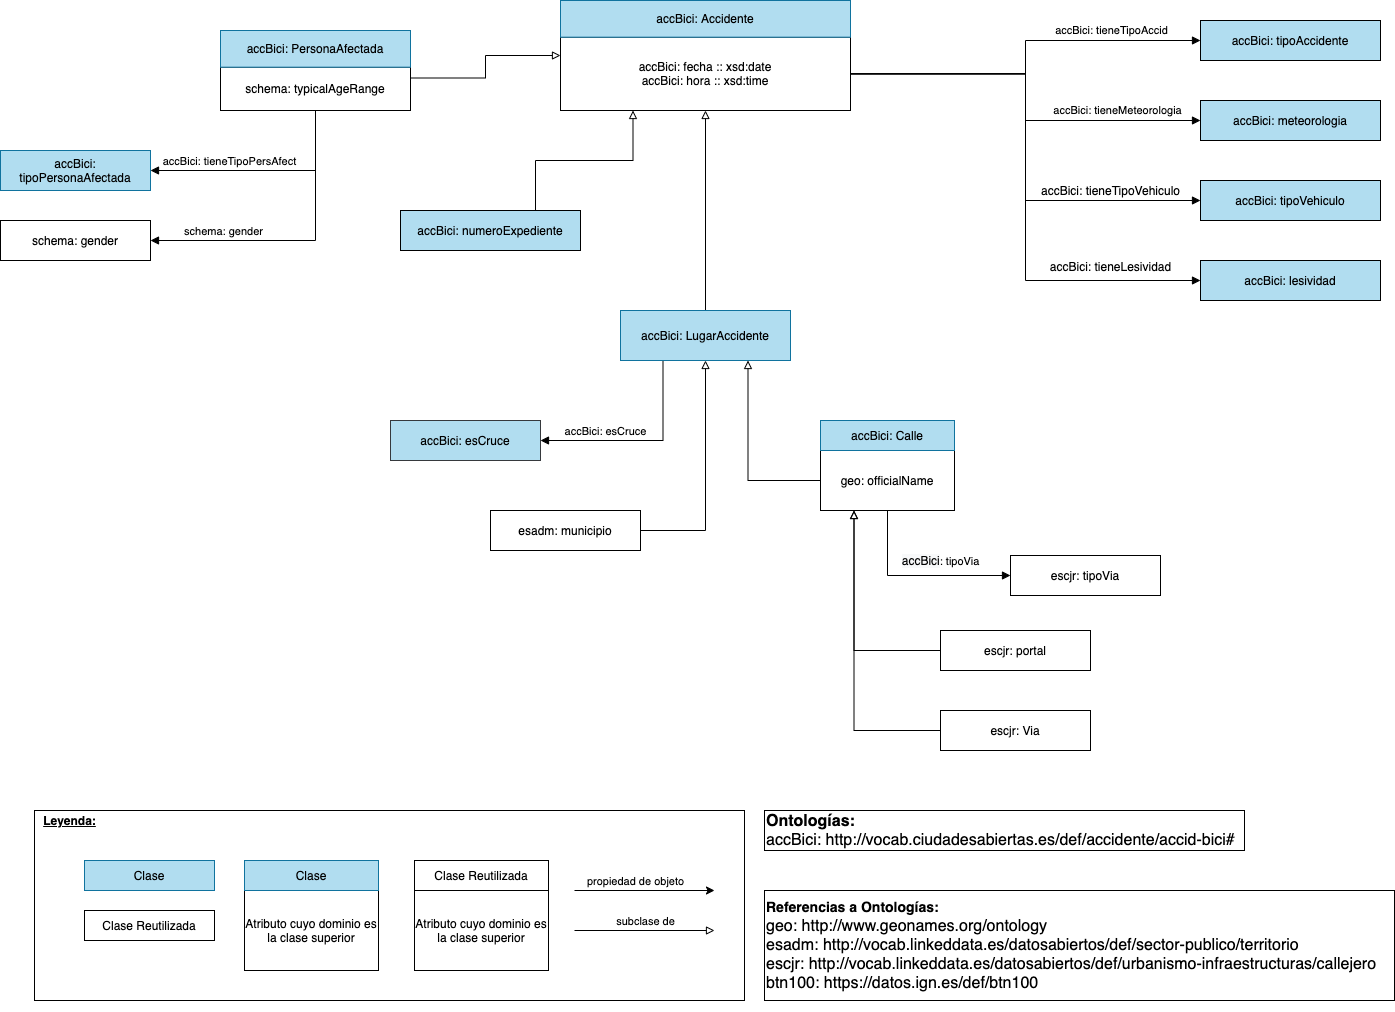
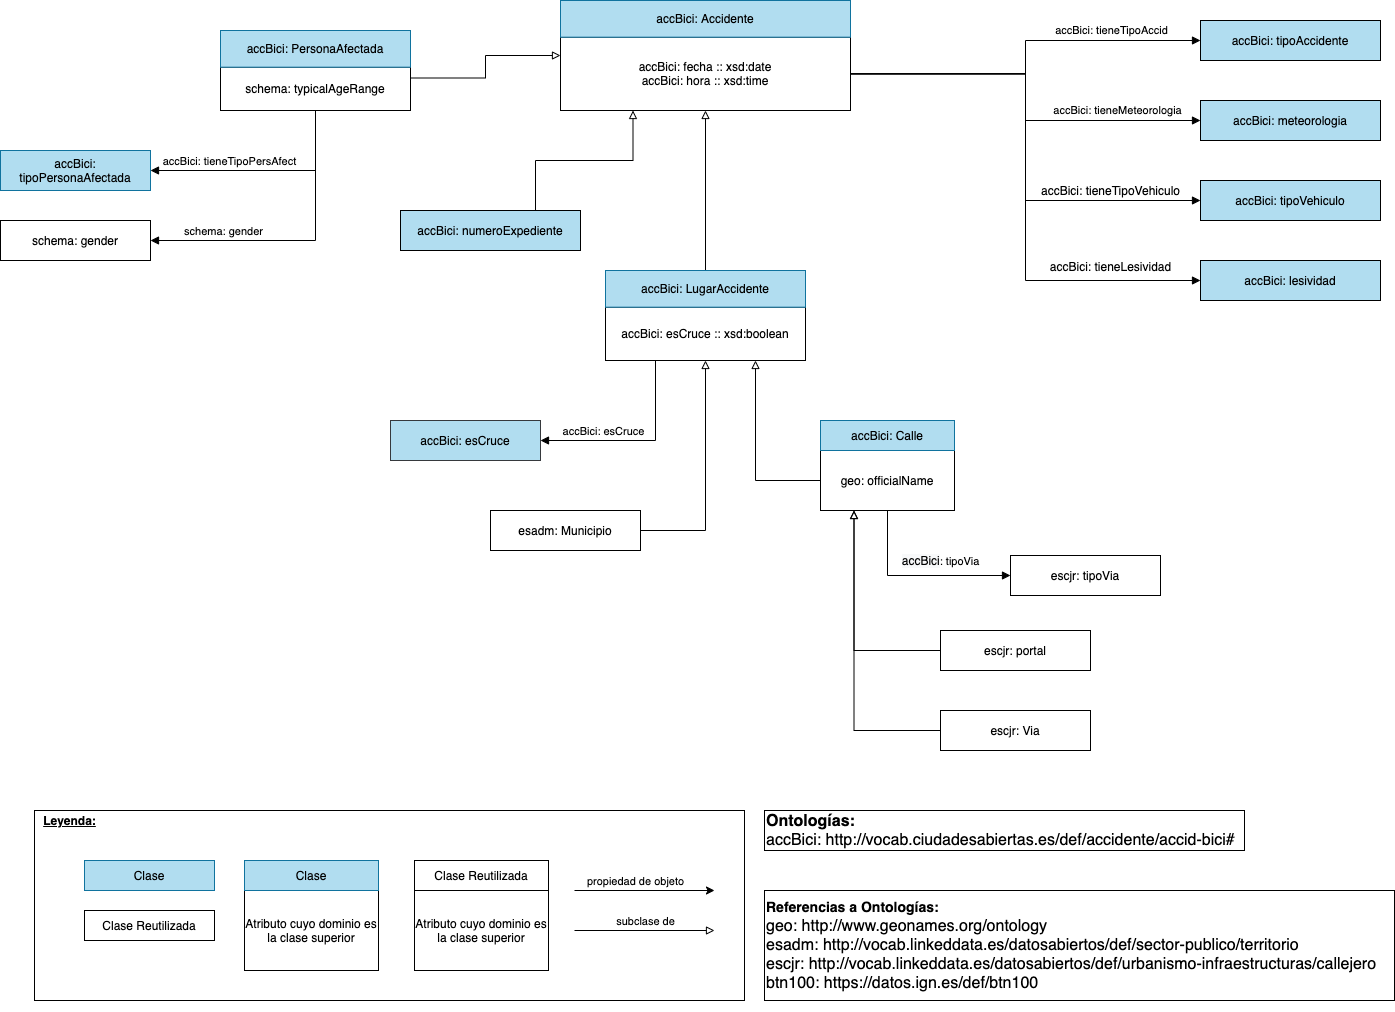
#5 (Accidente) Convertir a DataProperty recursos True/False

Changed region(s): [[0.4315, 0.2451, 0.5857, 0.3676], [0.4007, 0.3982, 0.4624, 0.4289]]

diff --git a/Documentacion/secciones/021_accid/0212_VocabAccidentesBici_PropDat.tex b/Documentacion/secciones/021_accid/0212_VocabAccidentesBici_PropDat.tex
@@ -24,7 +24,7 @@ Fecha en la que ocurre el siniestro.
 \newline
 
 \underline{\textbf{Rango:}} 
-\newline date
+\newline xsd:date
 
 \end{flushleft}
 \end{mybox}
@@ -50,7 +50,7 @@ Hora en la que ocurre el siniestro.
 \newline
 
 \underline{\textbf{Rango:}} 
-\newline time
+\newline xsd:time
 
 \end{flushleft}
 \end{mybox}
@@ -114,6 +114,34 @@ Rango de edad en el que se encuentra la persona afectada.
 
 
 
+
+
+
+
+
+\begin{mybox}{enCruce}
+\begin{flushleft}
+\underline{\textbf{IRI:}}
+\url{http://vocab.ciudadesabiertas.es/def/accidente/accid-bici#en-cruce}
+\newline
+
+Si el accidente ocurrió en un cruce entre 2 o más vías.
+\newline
+
+\underline{\textbf{Definida por:}}
+\url{http://vocab.ciudadesabiertas.es/def/accidente/accid-bici}
+\newline
+
+\underline{\textbf{Dominio:}} 
+	LugarAccidente
+\newline
+
+\underline{\textbf{Rango:}}
+	xsd:boolean
+
+\end{flushleft}
+\end{mybox}
+%----------------------------------------------------------------------------------------------------------------------------------------------------------------------------------------------------------------------------------------------
 
 
 

diff --git a/Documentacion/secciones/021_accid/0213_VocabAccidentesBici_PropObj.tex b/Documentacion/secciones/021_accid/0213_VocabAccidentesBici_PropObj.tex
@@ -462,38 +462,6 @@ Numero de la calle donde ha ocurrido el accidente, si procede.
 
 
 
-\begin{mybox}{esCruce}
-\begin{flushleft}
-\underline{\textbf{IRI:}}
-\url{http://vocab.ciudadesabiertas.es/def/accidente/accid-bici#esCruce}
-\newline
-
-Si el accidente ocurrió en un cruce entre 2 o más vías. Se han definido los siguientes elementos:
-\newline \url{http://vocab.ciudadesabiertas.es/def/accidente/accid-bici/esCruce/TRUE}
-\newline \url{http://vocab.ciudadesabiertas.es/def/accidente/accid-bici/esCruce/FALSE}
-%1: Si es entre 2 o mas vias
-% - 0: Si es en una unica via
-\newline
-
-\underline{\textbf{Definida por:}}
-\url{http://vocab.ciudadesabiertas.es/def/accidente/accid-bici}
-\newline
-
-\underline{\textbf{Dominio:}} 
-	LugarAccidente
-\newline
-
-\underline{\textbf{Rango:}}
-	concept
-
-\end{flushleft}
-\end{mybox}
-%----------------------------------------------------------------------------------------------------------------------------------------------------------------------------------------------------------------------------------------------
-
-
-
-
-
 
 
 
